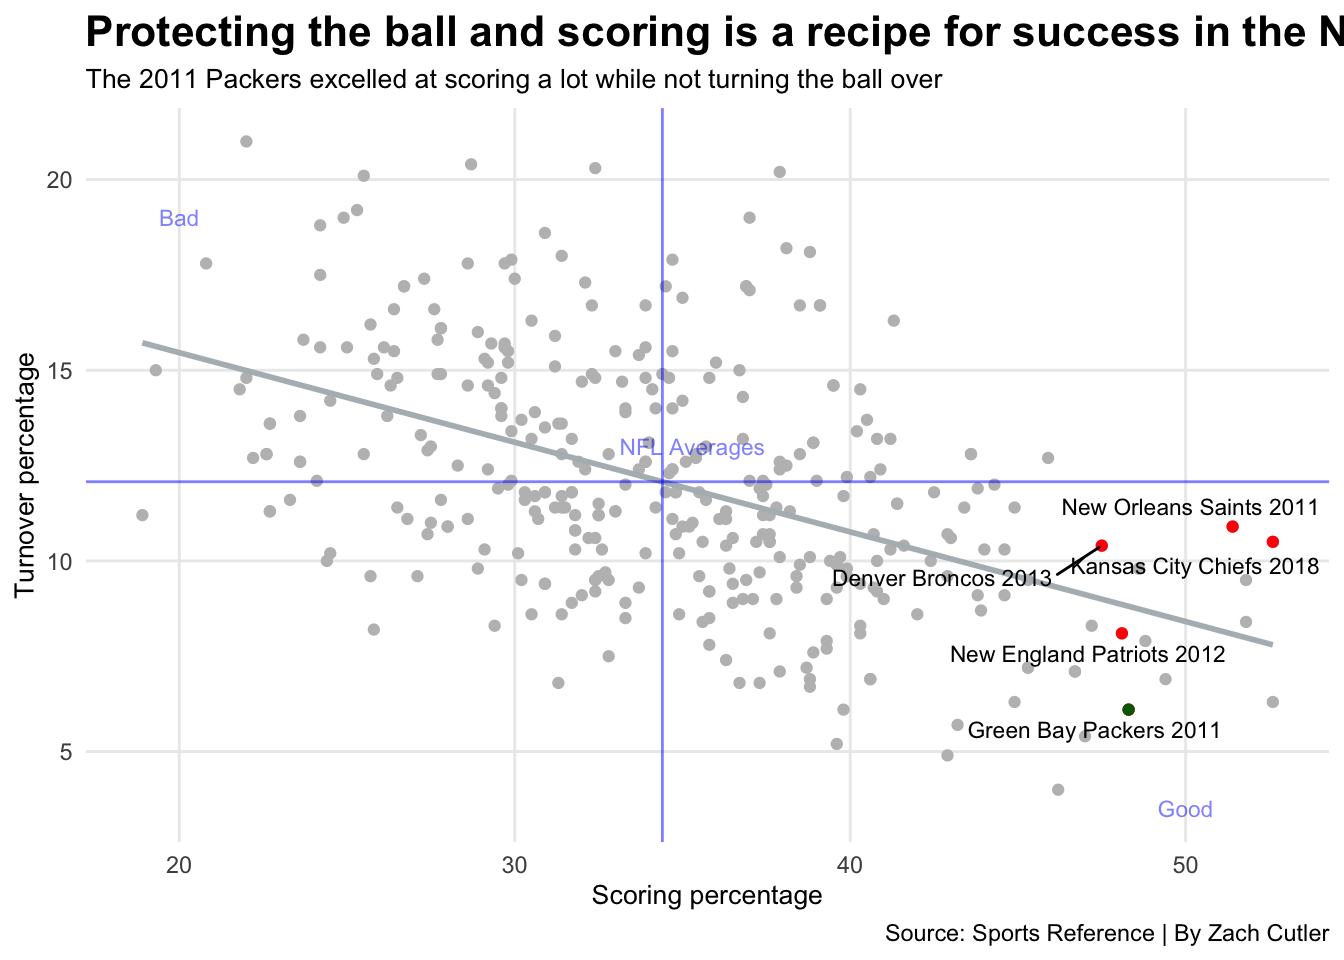
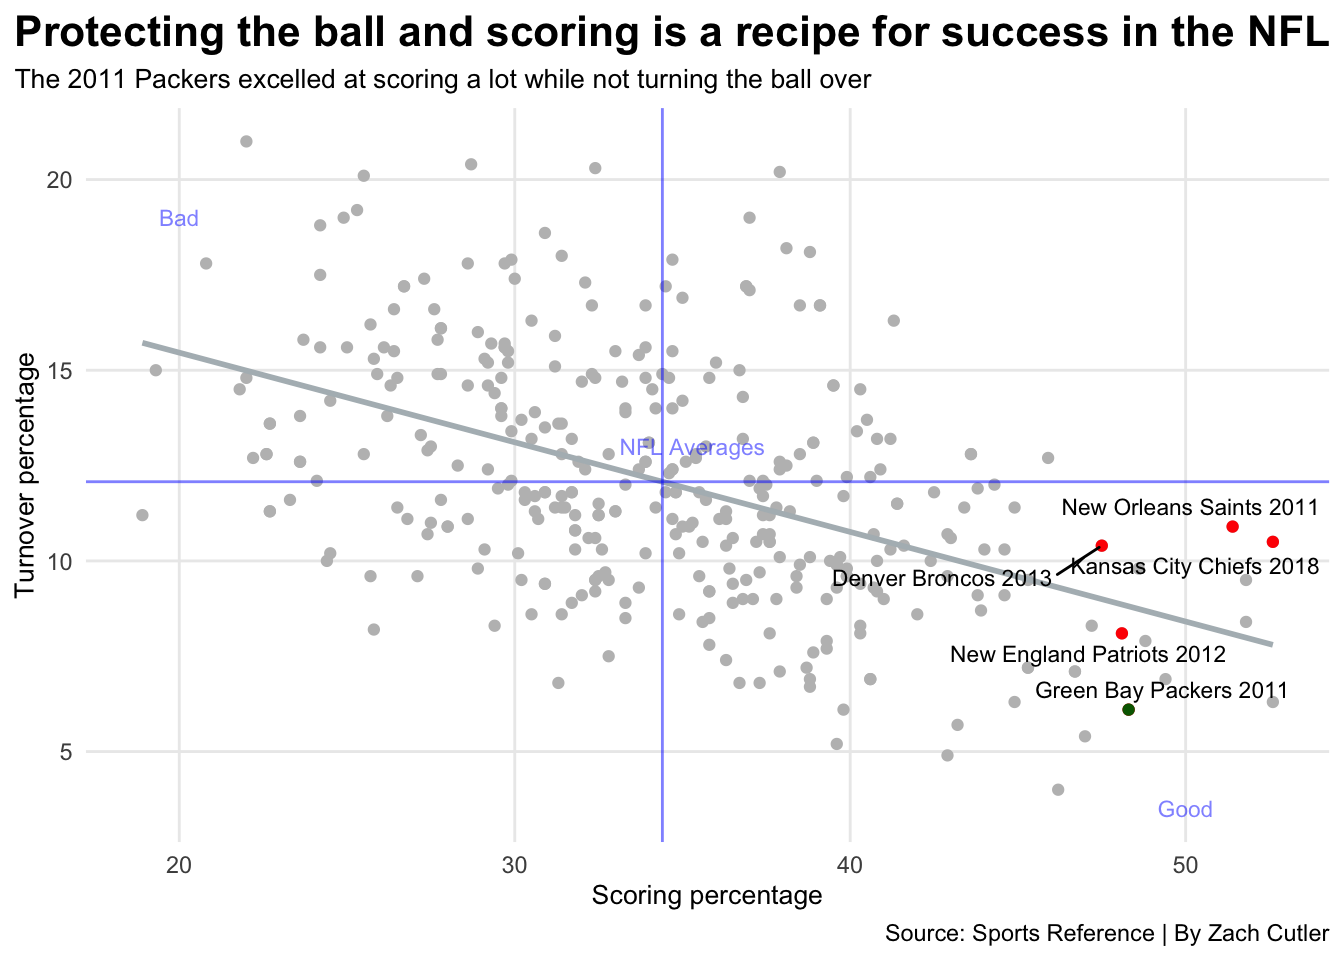
New new

diff --git a/posts/where-did-the-2011-packers-rank-among-the-best-offenses-of-the-2010s/index.html b/posts/where-did-the-2011-packers-rank-among-the-best-offenses-of-the-2010s/index.html
@@ -449,15 +449,16 @@ code span.wa { color: #60a0b0; font-weight: bold; font-style: italic; } /* Warni
 <span id="cb3-15"><a href="#cb3-15" aria-hidden="true" tabindex="-1"></a>    <span class="at">plot.title =</span> <span class="fu">element_text</span>(<span class="at">size =</span> <span class="dv">16</span>, <span class="at">face =</span> <span class="st">"bold"</span>),</span>
 <span id="cb3-16"><a href="#cb3-16" aria-hidden="true" tabindex="-1"></a>    <span class="at">axis.title =</span> <span class="fu">element_text</span>(<span class="at">size =</span> <span class="dv">10</span>), </span>
 <span id="cb3-17"><a href="#cb3-17" aria-hidden="true" tabindex="-1"></a>    <span class="at">plot.subtitle =</span> <span class="fu">element_text</span>(<span class="at">size=</span><span class="dv">10</span>), </span>
-<span id="cb3-18"><a href="#cb3-18" aria-hidden="true" tabindex="-1"></a>    <span class="at">panel.grid.minor =</span> <span class="fu">element_blank</span>()</span>
-<span id="cb3-19"><a href="#cb3-19" aria-hidden="true" tabindex="-1"></a>    ) <span class="sc">+</span></span>
-<span id="cb3-20"><a href="#cb3-20" aria-hidden="true" tabindex="-1"></a>  <span class="fu">labs</span>(</span>
-<span id="cb3-21"><a href="#cb3-21" aria-hidden="true" tabindex="-1"></a>    <span class="at">title=</span> <span class="st">"Protecting the ball and scoring is a recipe for success in the NFL"</span>,</span>
-<span id="cb3-22"><a href="#cb3-22" aria-hidden="true" tabindex="-1"></a>    <span class="at">subtitle=</span> <span class="st">"The 2011 Packers excelled at scoring a lot while not turning the ball over"</span>, </span>
-<span id="cb3-23"><a href="#cb3-23" aria-hidden="true" tabindex="-1"></a>    <span class="at">caption =</span> <span class="st">"Source: Sports Reference | By Zach Cutler"</span>,</span>
-<span id="cb3-24"><a href="#cb3-24" aria-hidden="true" tabindex="-1"></a>    <span class="at">x =</span> <span class="st">"Scoring percentage"</span>,</span>
-<span id="cb3-25"><a href="#cb3-25" aria-hidden="true" tabindex="-1"></a>    <span class="at">y=</span> <span class="st">"Turnover percentage"</span></span>
-<span id="cb3-26"><a href="#cb3-26" aria-hidden="true" tabindex="-1"></a>  )</span></code><button title="Copy to Clipboard" class="code-copy-button"><i class="bi"></i></button></pre></div>
+<span id="cb3-18"><a href="#cb3-18" aria-hidden="true" tabindex="-1"></a>    <span class="at">panel.grid.minor =</span> <span class="fu">element_blank</span>(),</span>
+<span id="cb3-19"><a href="#cb3-19" aria-hidden="true" tabindex="-1"></a>    <span class="at">plot.title.position =</span> <span class="st">"plot"</span></span>
+<span id="cb3-20"><a href="#cb3-20" aria-hidden="true" tabindex="-1"></a>    ) <span class="sc">+</span></span>
+<span id="cb3-21"><a href="#cb3-21" aria-hidden="true" tabindex="-1"></a>  <span class="fu">labs</span>(</span>
+<span id="cb3-22"><a href="#cb3-22" aria-hidden="true" tabindex="-1"></a>    <span class="at">title=</span> <span class="st">"Protecting the ball and scoring is a recipe for success in the NFL"</span>,</span>
+<span id="cb3-23"><a href="#cb3-23" aria-hidden="true" tabindex="-1"></a>    <span class="at">subtitle=</span> <span class="st">"The 2011 Packers excelled at scoring a lot while not turning the ball over"</span>, </span>
+<span id="cb3-24"><a href="#cb3-24" aria-hidden="true" tabindex="-1"></a>    <span class="at">caption =</span> <span class="st">"Source: Sports Reference | By Zach Cutler"</span>,</span>
+<span id="cb3-25"><a href="#cb3-25" aria-hidden="true" tabindex="-1"></a>    <span class="at">x =</span> <span class="st">"Scoring percentage"</span>,</span>
+<span id="cb3-26"><a href="#cb3-26" aria-hidden="true" tabindex="-1"></a>    <span class="at">y=</span> <span class="st">"Turnover percentage"</span></span>
+<span id="cb3-27"><a href="#cb3-27" aria-hidden="true" tabindex="-1"></a>  )</span></code><button title="Copy to Clipboard" class="code-copy-button"><i class="bi"></i></button></pre></div>
 </details>
 <div class="cell-output-display">
 <p><img src="index_files/figure-html/unnamed-chunk-3-1.png" class="img-fluid" width="672"></p>
@@ -482,15 +483,16 @@ code span.wa { color: #60a0b0; font-weight: bold; font-style: italic; } /* Warni
 <span id="cb4-13"><a href="#cb4-13" aria-hidden="true" tabindex="-1"></a>    <span class="at">plot.title =</span> <span class="fu">element_text</span>(<span class="at">size =</span> <span class="dv">16</span>, <span class="at">face =</span> <span class="st">"bold"</span>),</span>
 <span id="cb4-14"><a href="#cb4-14" aria-hidden="true" tabindex="-1"></a>    <span class="at">axis.title =</span> <span class="fu">element_text</span>(<span class="at">size =</span> <span class="dv">10</span>), </span>
 <span id="cb4-15"><a href="#cb4-15" aria-hidden="true" tabindex="-1"></a>    <span class="at">plot.subtitle =</span> <span class="fu">element_text</span>(<span class="at">size=</span><span class="dv">10</span>), </span>
-<span id="cb4-16"><a href="#cb4-16" aria-hidden="true" tabindex="-1"></a>    <span class="at">panel.grid.minor =</span> <span class="fu">element_blank</span>()</span>
-<span id="cb4-17"><a href="#cb4-17" aria-hidden="true" tabindex="-1"></a>    ) <span class="sc">+</span></span>
-<span id="cb4-18"><a href="#cb4-18" aria-hidden="true" tabindex="-1"></a>  <span class="fu">labs</span>(</span>
-<span id="cb4-19"><a href="#cb4-19" aria-hidden="true" tabindex="-1"></a>    <span class="at">title=</span> <span class="st">"Running the ball? Never heard of it"</span>,</span>
-<span id="cb4-20"><a href="#cb4-20" aria-hidden="true" tabindex="-1"></a>    <span class="at">subtitle=</span> <span class="st">"The 2011 Packers offense was predicated on the pass."</span>, </span>
-<span id="cb4-21"><a href="#cb4-21" aria-hidden="true" tabindex="-1"></a>    <span class="at">caption =</span> <span class="st">"Source: Sports Reference | By Zach Cutler"</span>,</span>
-<span id="cb4-22"><a href="#cb4-22" aria-hidden="true" tabindex="-1"></a>    <span class="at">x =</span> <span class="st">"Rushing Yards"</span>,</span>
-<span id="cb4-23"><a href="#cb4-23" aria-hidden="true" tabindex="-1"></a>    <span class="at">y=</span> <span class="st">"Passing Yards"</span></span>
-<span id="cb4-24"><a href="#cb4-24" aria-hidden="true" tabindex="-1"></a>  )</span></code><button title="Copy to Clipboard" class="code-copy-button"><i class="bi"></i></button></pre></div>
+<span id="cb4-16"><a href="#cb4-16" aria-hidden="true" tabindex="-1"></a>    <span class="at">panel.grid.minor =</span> <span class="fu">element_blank</span>(), </span>
+<span id="cb4-17"><a href="#cb4-17" aria-hidden="true" tabindex="-1"></a>    <span class="at">plot.title.position =</span> <span class="st">"plot"</span></span>
+<span id="cb4-18"><a href="#cb4-18" aria-hidden="true" tabindex="-1"></a>    ) <span class="sc">+</span></span>
+<span id="cb4-19"><a href="#cb4-19" aria-hidden="true" tabindex="-1"></a>  <span class="fu">labs</span>(</span>
+<span id="cb4-20"><a href="#cb4-20" aria-hidden="true" tabindex="-1"></a>    <span class="at">title=</span> <span class="st">"Running the ball? Never heard of it"</span>,</span>
+<span id="cb4-21"><a href="#cb4-21" aria-hidden="true" tabindex="-1"></a>    <span class="at">subtitle=</span> <span class="st">"The 2011 Packers offense was predicated on the pass."</span>, </span>
+<span id="cb4-22"><a href="#cb4-22" aria-hidden="true" tabindex="-1"></a>    <span class="at">caption =</span> <span class="st">"Source: Sports Reference | By Zach Cutler"</span>,</span>
+<span id="cb4-23"><a href="#cb4-23" aria-hidden="true" tabindex="-1"></a>    <span class="at">x =</span> <span class="st">"Rushing Yards"</span>,</span>
+<span id="cb4-24"><a href="#cb4-24" aria-hidden="true" tabindex="-1"></a>    <span class="at">y=</span> <span class="st">"Passing Yards"</span></span>
+<span id="cb4-25"><a href="#cb4-25" aria-hidden="true" tabindex="-1"></a>  )</span></code><button title="Copy to Clipboard" class="code-copy-button"><i class="bi"></i></button></pre></div>
 </details>
 <div class="cell-output-display">
 <p><img src="index_files/figure-html/unnamed-chunk-4-1.png" class="img-fluid" width="672"></p>

diff --git a/index.html b/index.html
@@ -164,7 +164,7 @@ ul.task-list li input[type="checkbox"] {
 
 <div class="quarto-listing quarto-listing-container-default" id="listing-listing">
 <div class="list quarto-listing-default">
-<div class="quarto-post image-right" data-index="0" data-categories="football,nfl,analysis" data-listing-date-sort="1669788000000" data-listing-file-modified-sort="1669846206437" data-listing-reading-time-sort="10.63">
+<div class="quarto-post image-right" data-index="0" data-categories="football,nfl,analysis" data-listing-date-sort="1669788000000" data-listing-file-modified-sort="1669846961625" data-listing-reading-time-sort="10.605">
 <div class="thumbnail">
 <p><a href="./posts/where-did-the-2011-packers-rank-among-the-best-offenses-of-the-2010s/index.html"> <img src="./posts/where-did-the-2011-packers-rank-among-the-best-offenses-of-the-2010s/image.png" class="thumnail-image"> </a></p>
 </div>
